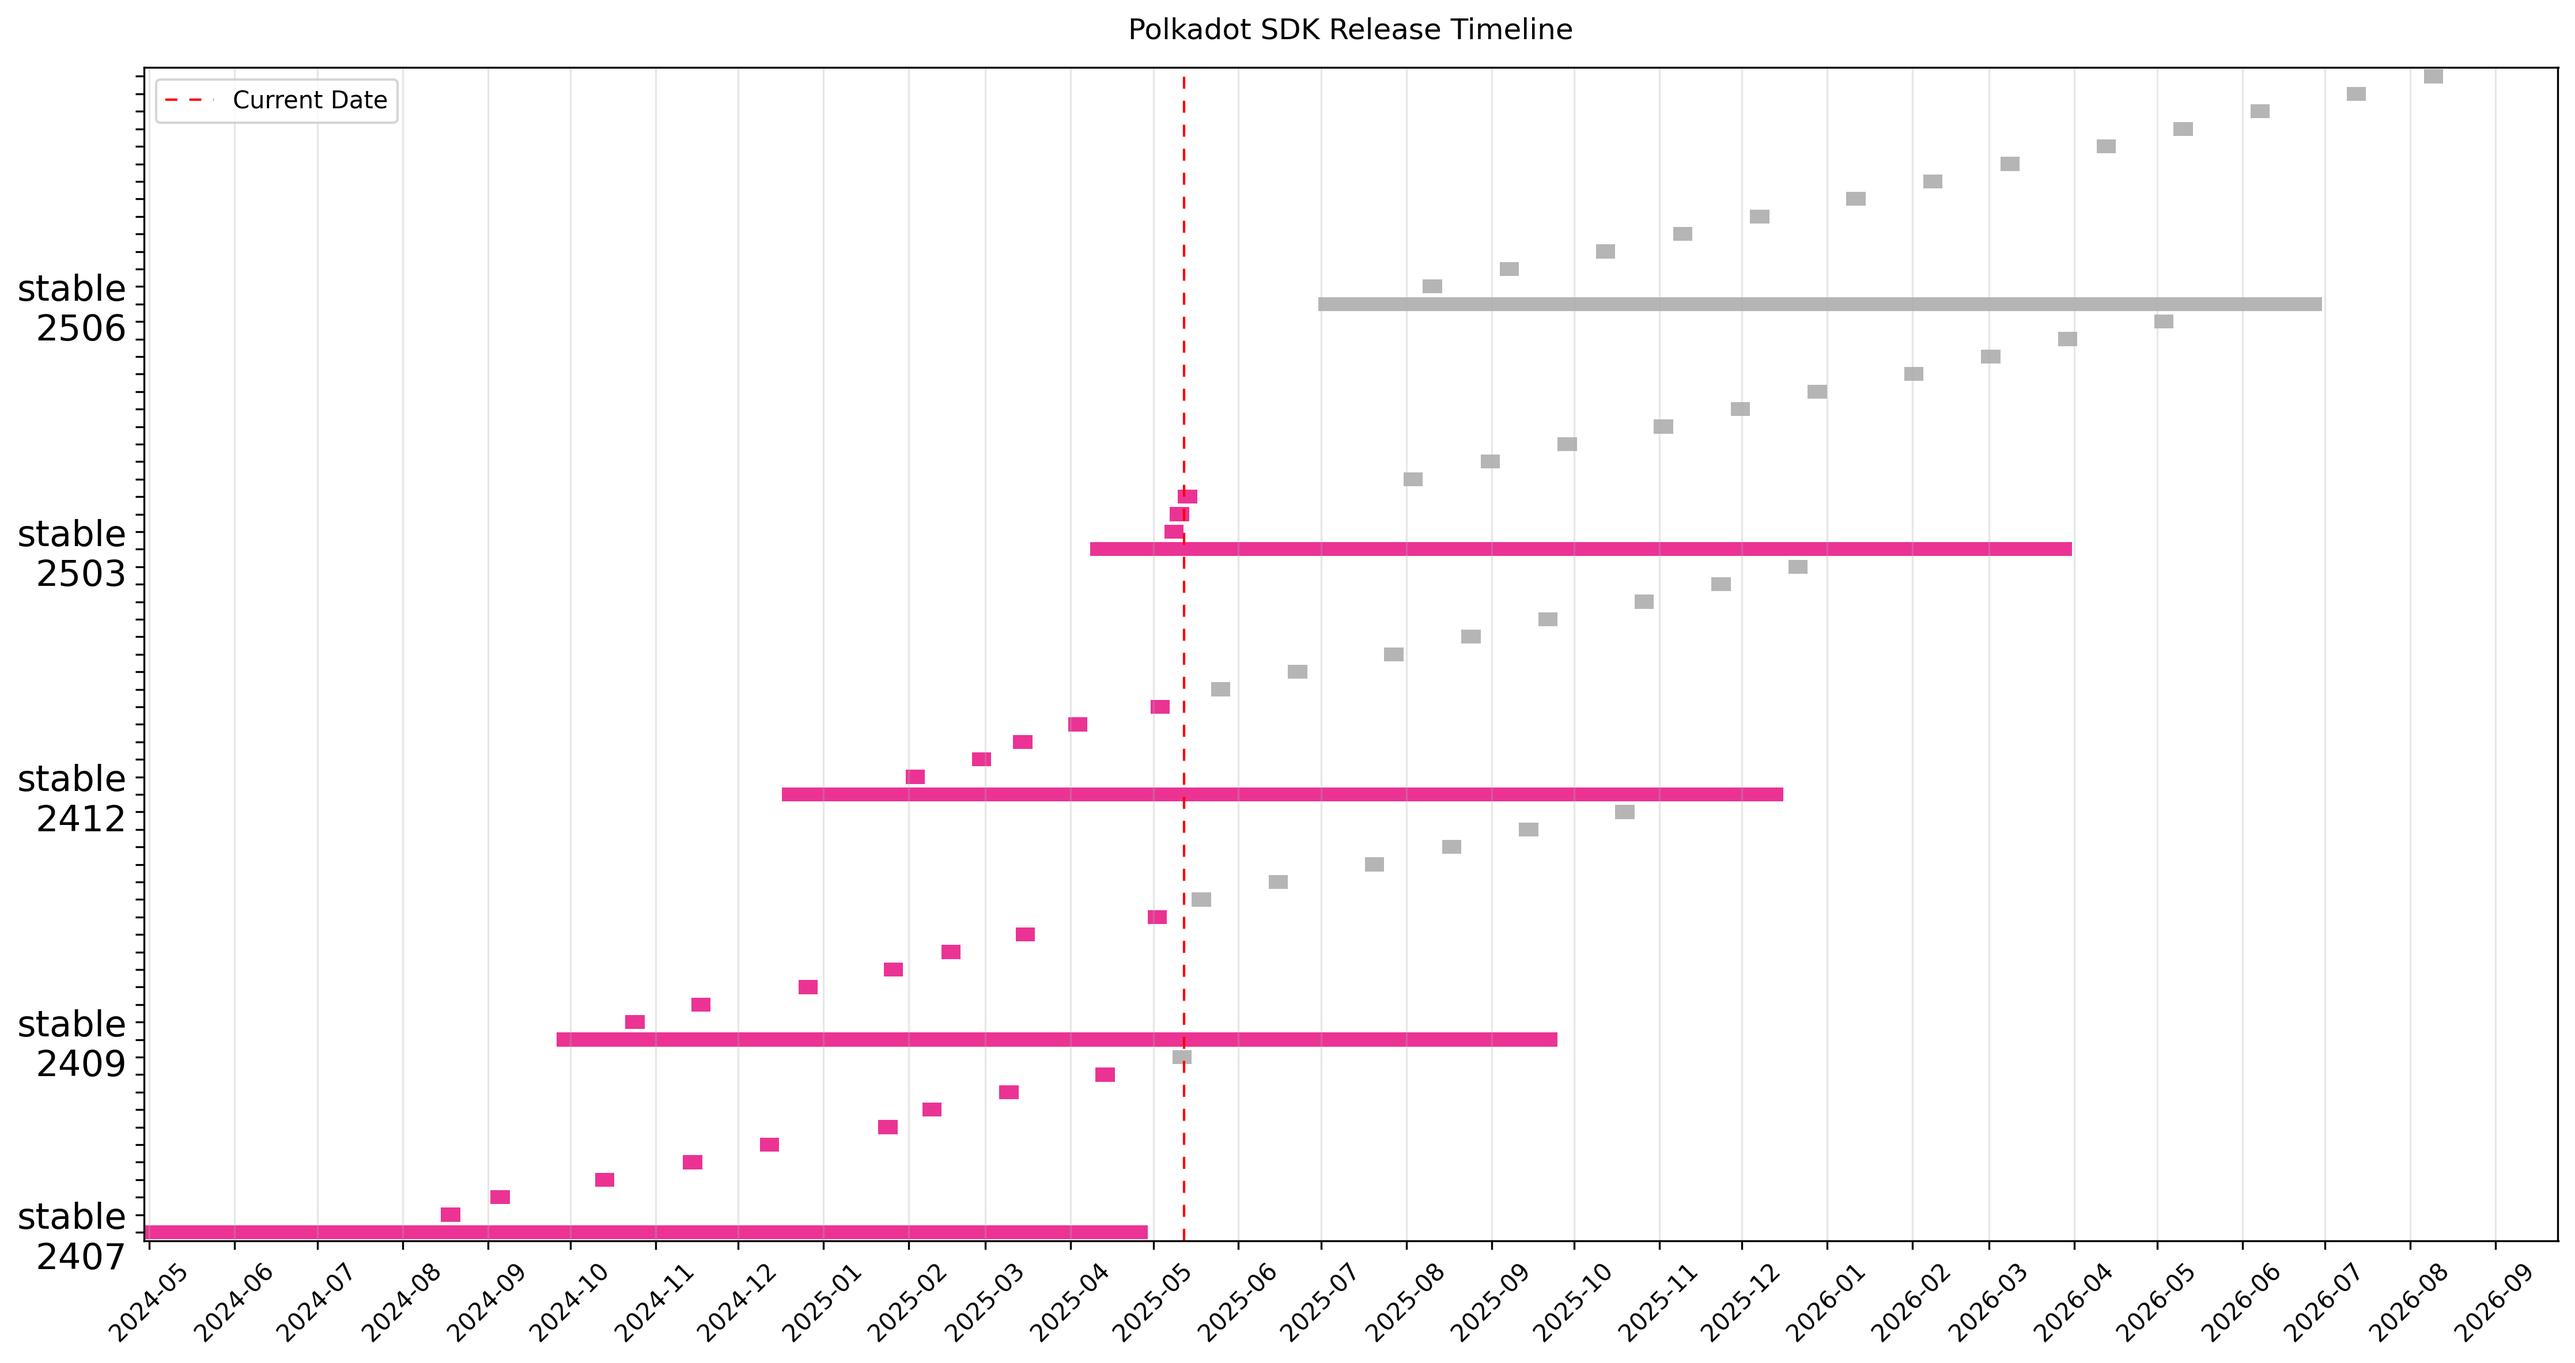
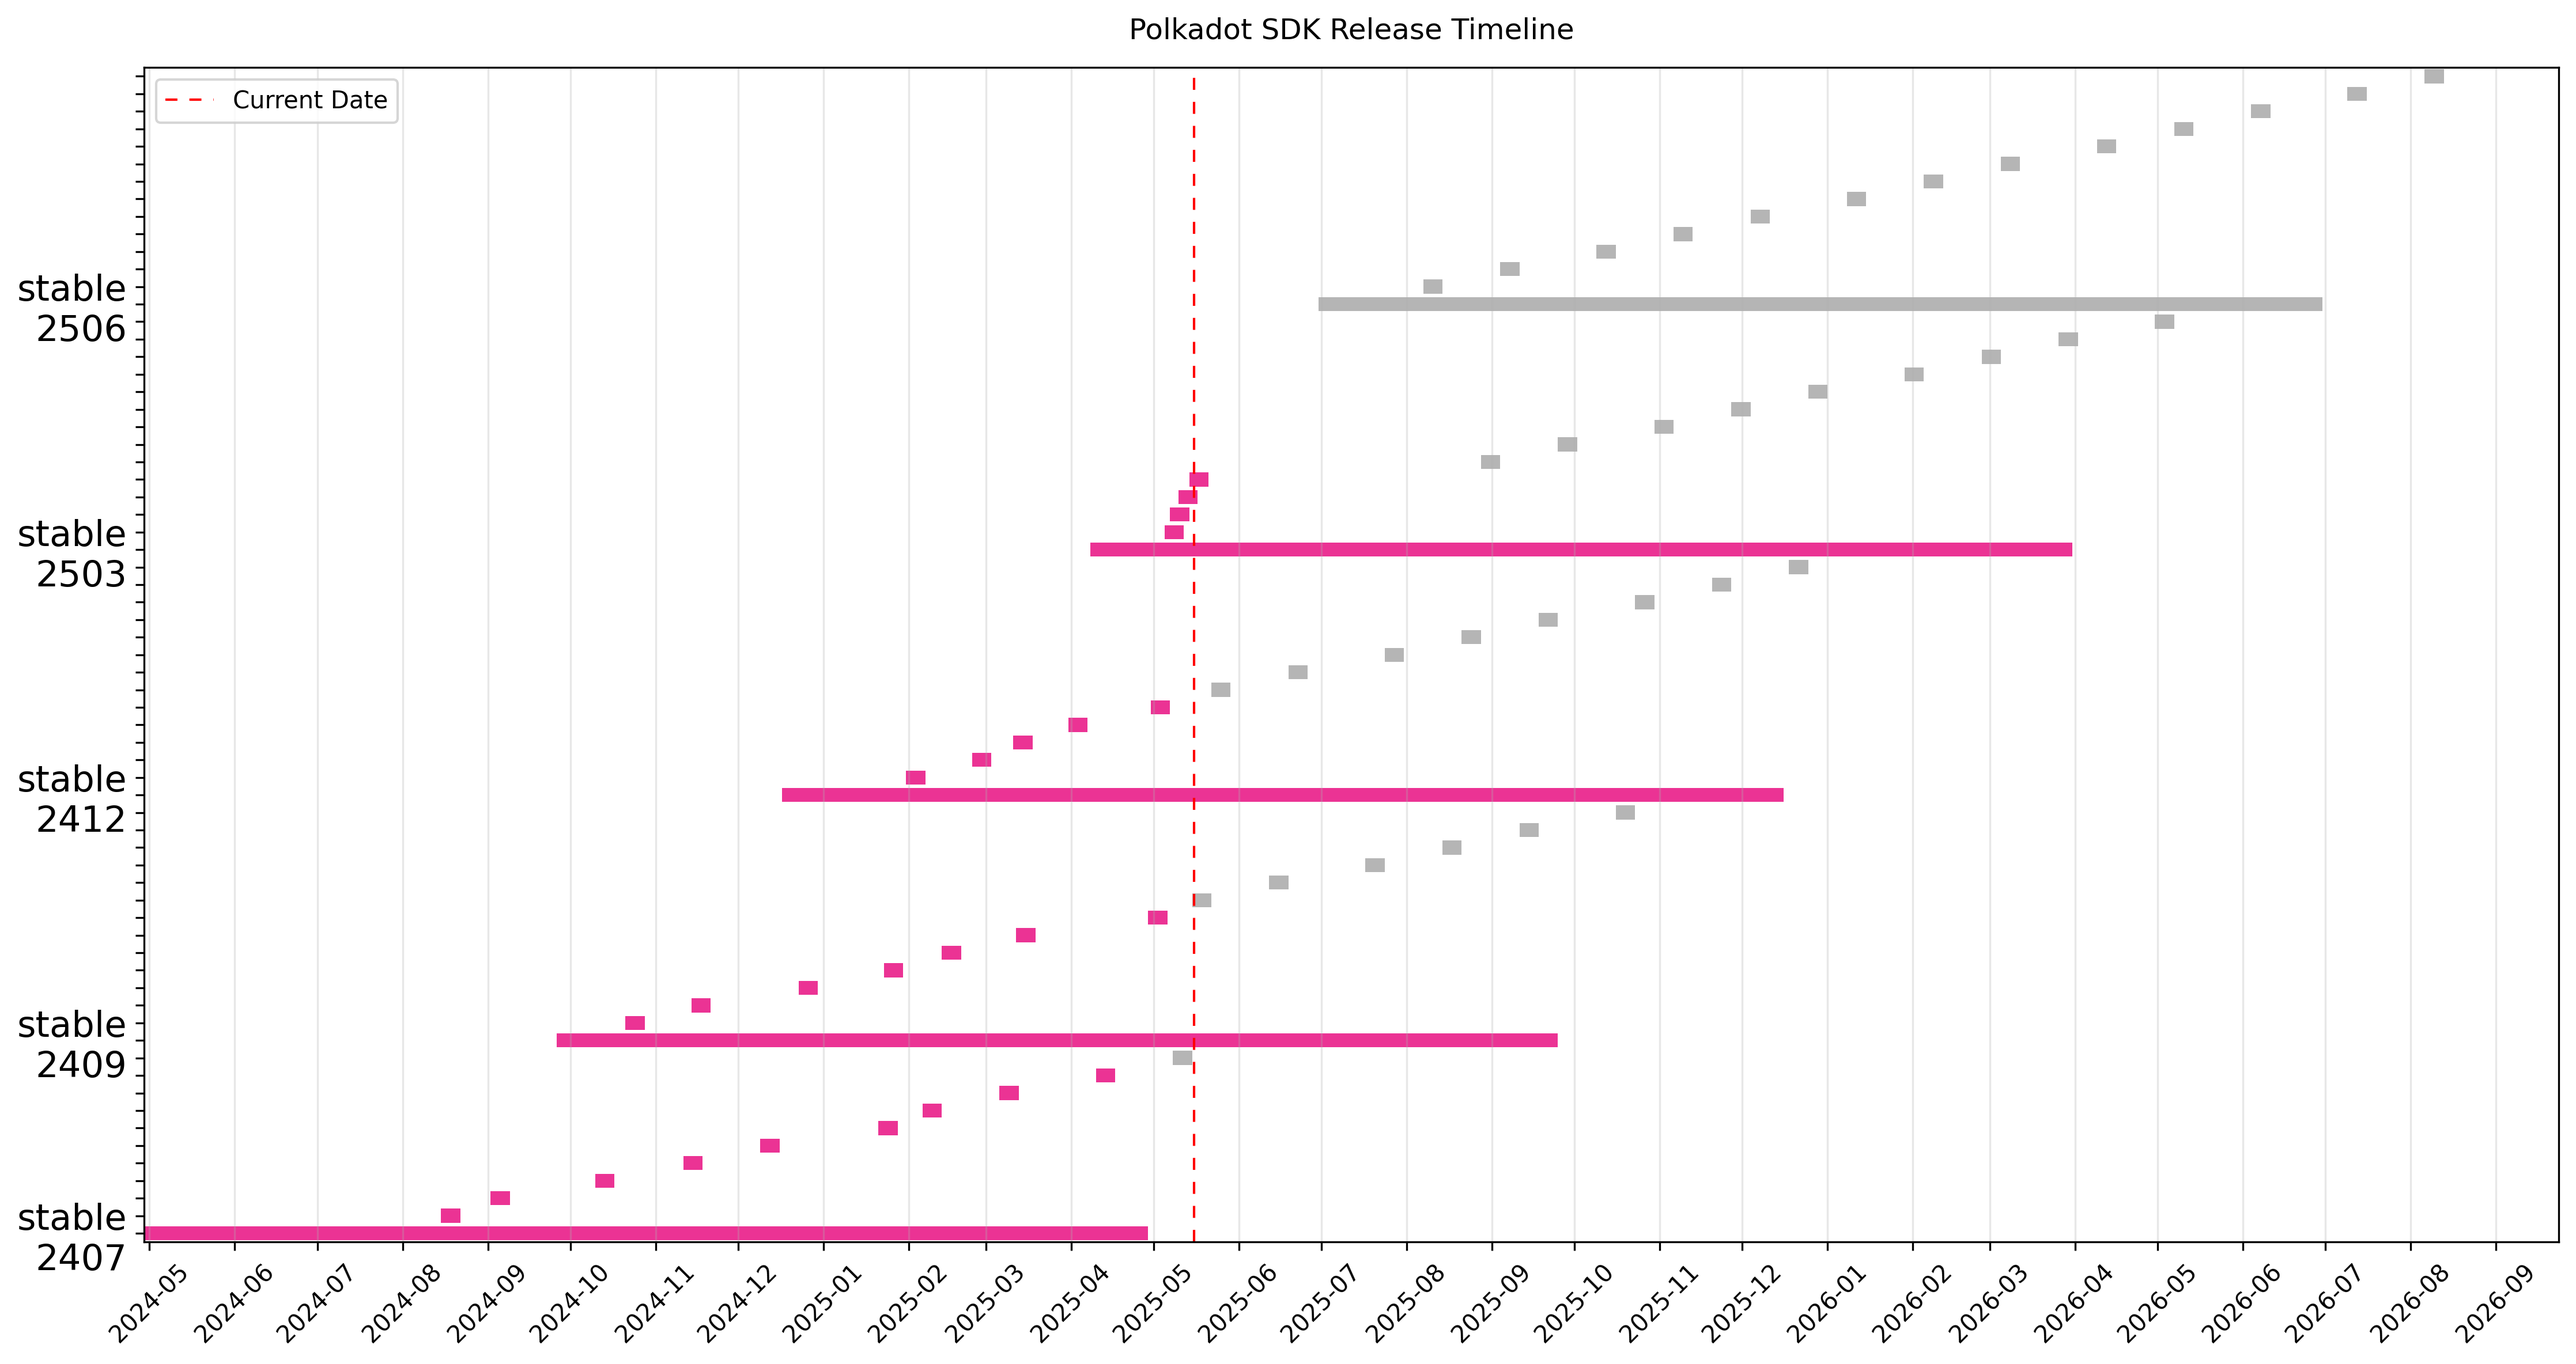
Release satble2503-4

diff --git a/README.md b/README.md
@@ -38,11 +38,11 @@ Planned and historic release dates:
 | &nbsp;&nbsp;stable2412-7 | 2025-06-16 | 2025-06-19 |  | Planned |
 | &nbsp;&nbsp;[3 more past, 6 more planned](CALENDAR.md) |  |  | | |
 | **stable2503** | 2025-02-17 | 2025-04-08 | 2026-03-31 | [Released](https://github.com/paritytech/polkadot-sdk/releases/tag/polkadot-stable2503) |
-| &nbsp;&nbsp;stable2503-2 | 2025-05-07 | 2025-05-07 |  | [Released](https://github.com/paritytech/polkadot-sdk/releases/tag/polkadot-stable2503-2) |
 | &nbsp;&nbsp;stable2503-3 | 2025-05-10 | 2025-05-10 |  | [Released](https://github.com/paritytech/polkadot-sdk/releases/tag/polkadot-stable2503-3) |
-| &nbsp;&nbsp;stable2503-4 | 2025-07-28 | 2025-07-31 |  | Planned |
+| &nbsp;&nbsp;stable2503-4 | 2025-05-14 | 2025-05-14 |  | [Released](https://github.com/paritytech/polkadot-sdk/releases/tag/polkadot-stable2503-4) |
 | &nbsp;&nbsp;stable2503-5 | 2025-08-25 | 2025-08-28 |  | Planned |
-| &nbsp;&nbsp;[1 more past, 8 more planned](CALENDAR.md) |  |  | | |
+| &nbsp;&nbsp;stable2503-6 | 2025-09-22 | 2025-09-25 |  | Planned |
+| &nbsp;&nbsp;[2 more past, 7 more planned](CALENDAR.md) |  |  | | |
 | **stable2506** | 2025-05-15 | 2025-06-30 | 2026-06-30 | Planned |
 | &nbsp;&nbsp;stable2506-1 | 2025-08-04 | 2025-08-07 |  | Planned |
 | &nbsp;&nbsp;stable2506-2 | 2025-09-01 | 2025-09-04 |  | Planned |

diff --git a/CALENDAR.md b/CALENDAR.md
@@ -51,7 +51,7 @@ Full untruncated version index.
 | &nbsp;&nbsp;stable2503-1 | 2025-05-05 | 2025-05-05 |  | [Released](https://github.com/paritytech/polkadot-sdk/releases/tag/polkadot-stable2503-1) |
 | &nbsp;&nbsp;stable2503-2 | 2025-05-07 | 2025-05-07 |  | [Released](https://github.com/paritytech/polkadot-sdk/releases/tag/polkadot-stable2503-2) |
 | &nbsp;&nbsp;stable2503-3 | 2025-05-10 | 2025-05-10 |  | [Released](https://github.com/paritytech/polkadot-sdk/releases/tag/polkadot-stable2503-3) |
-| &nbsp;&nbsp;stable2503-4 | 2025-07-28 | 2025-07-31 |  | Planned |
+| &nbsp;&nbsp;stable2503-4 | 2025-05-14 | 2025-05-14 |  | [Released](https://github.com/paritytech/polkadot-sdk/releases/tag/polkadot-stable2503-4) |
 | &nbsp;&nbsp;stable2503-5 | 2025-08-25 | 2025-08-28 |  | Planned |
 | &nbsp;&nbsp;stable2503-6 | 2025-09-22 | 2025-09-25 |  | Planned |
 | &nbsp;&nbsp;stable2503-7 | 2025-10-27 | 2025-10-30 |  | Planned |
